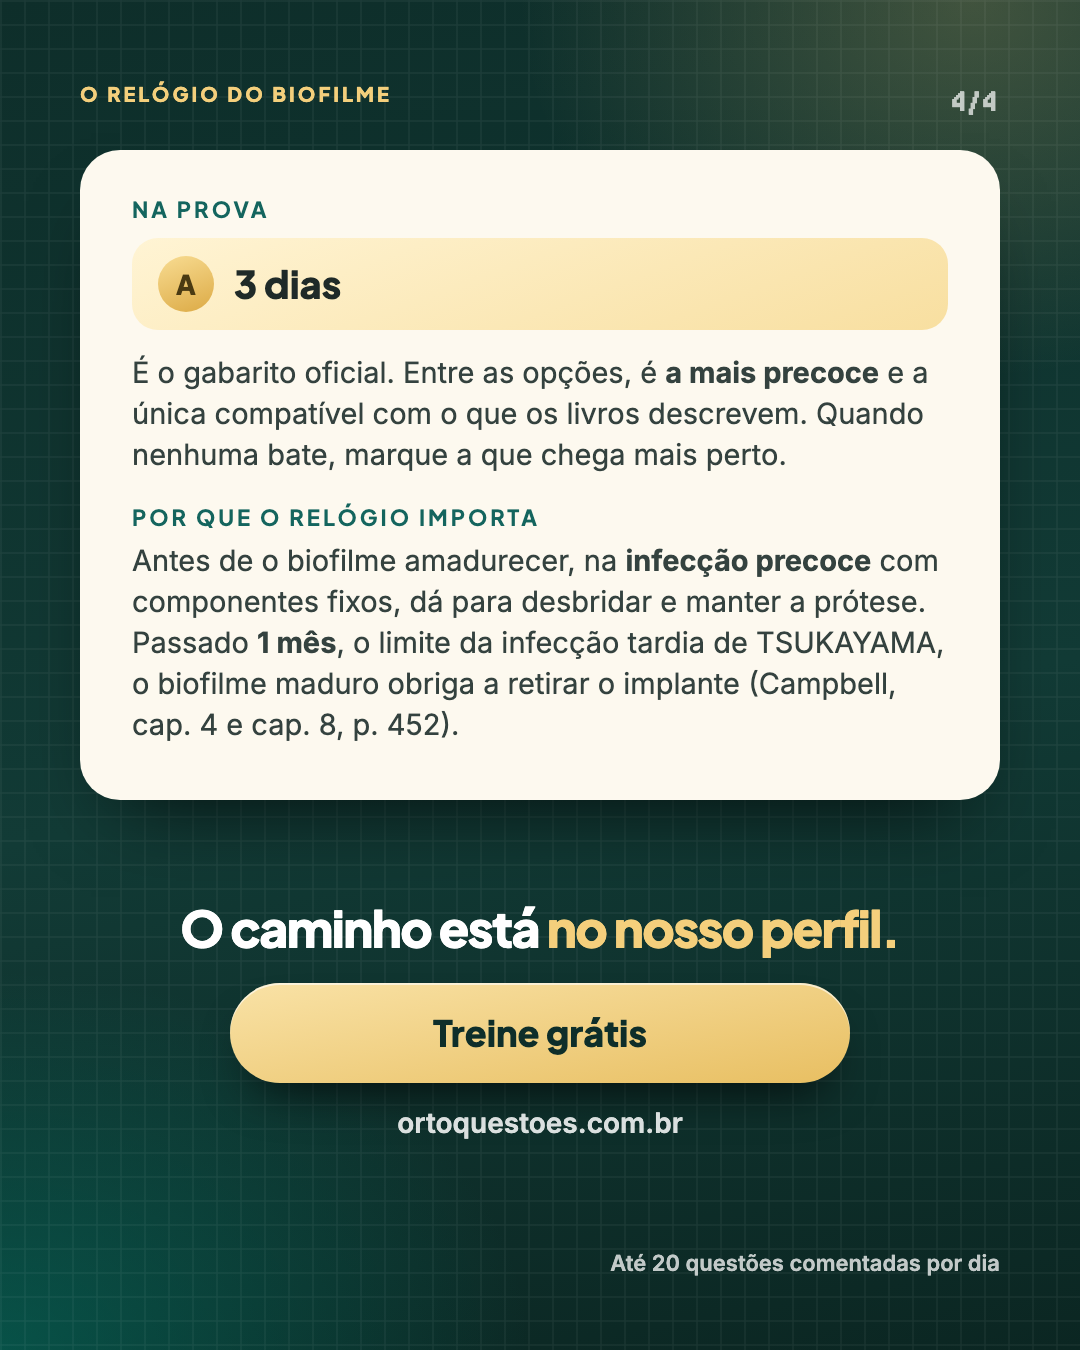
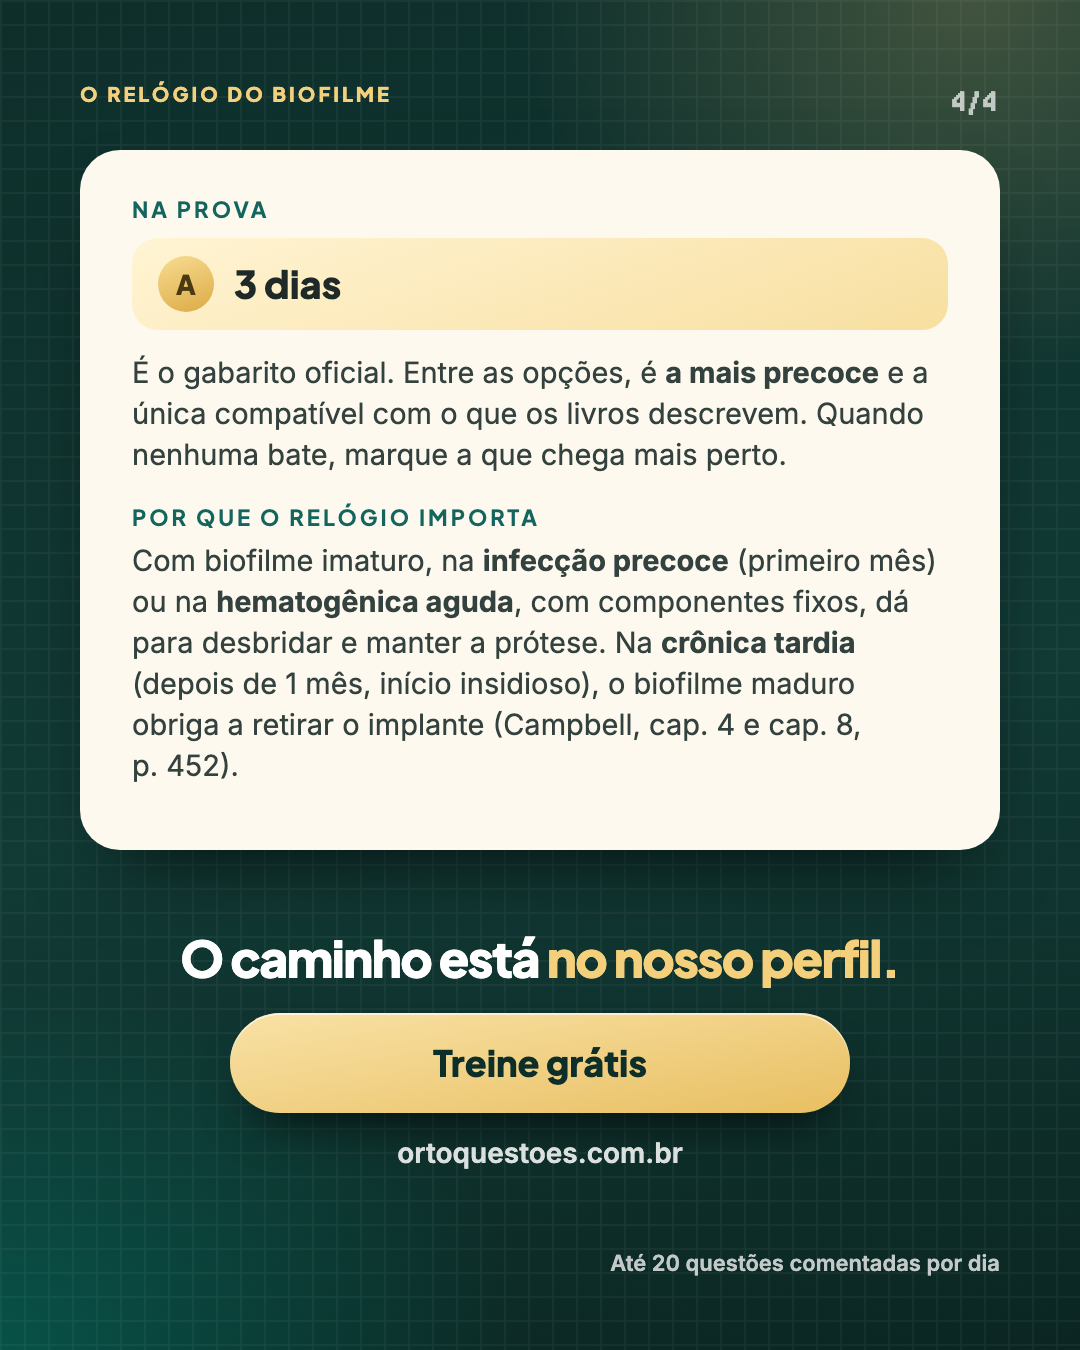
Biofilme, slide 4: hematogênica aguda também permite reter a prótese; retirar só na crônica tardia

Changed region(s): [[0.0611, 0.4044, 0.9472, 0.8711]]

diff --git a/marketing/instagram/posts/2026-11-29-relogio-biofilme/feed.html b/marketing/instagram/posts/2026-11-29-relogio-biofilme/feed.html
@@ -116,14 +116,14 @@ section { width: 1080px; height: 1350px; margin-bottom: 40px; background:
   <div class="grade"></div>
   <p class="sel">O relógio do biofilme</p>
   <span class="cont">4/4</span>
-  <div class="card" style="top:150px; height:650px; padding:48px 52px;">
+  <div class="card" style="top:150px; height:700px; padding:48px 52px;">
     <p class="kick" style="color:var(--verde);">Na prova</p>
     <div class="op certa" style="margin-top:18px; font-size:38px;"><span class="l">A</span>3 dias</div>
     <p class="cit" style="margin-top:22px; font-size:29px;">É o gabarito oficial. Entre as opções, é <b>a mais precoce</b> e a única compatível com o que os livros descrevem. Quando nenhuma bate, marque a que chega mais perto.</p>
     <p class="kick" style="margin-top:30px; color:var(--verde);">Por que o relógio importa</p>
-    <p class="cit" style="margin-top:12px; font-size:29px;">Antes de o biofilme amadurecer, na <b>infecção precoce</b> com componentes fixos, dá para desbridar e manter a prótese. Passado <b>1 mês</b>, o limite da infecção tardia de TSUKAYAMA, o biofilme maduro obriga a retirar o implante (Campbell, cap. 4 e cap. 8, p. 452).</p>
+    <p class="cit" style="margin-top:12px; font-size:29px;">Com biofilme imaturo, na <b>infecção precoce</b> (primeiro mês) ou na <b>hematogênica aguda</b>, com componentes fixos, dá para desbridar e manter a prótese. Na <b>crônica tardia</b> (depois de 1 mês, início insidioso), o biofilme maduro obriga a retirar o implante (Campbell, cap.&nbsp;4 e cap.&nbsp;8, p.&nbsp;452).</p>
   </div>
-  <div style="position:absolute; left:80px; right:80px; top:900px; z-index:2; text-align:center;">
+  <div style="position:absolute; left:80px; right:80px; top:930px; z-index:2; text-align:center;">
     <p style="font:800 50px/1.1 Jakarta; letter-spacing:-1.5px; color:#fff;">O caminho está <span class="ouro">no nosso perfil.</span></p>
     <div class="botao" style="margin:28px auto 0; width:620px; height:100px;">Treine grátis</div>
     <p style="margin-top:22px; font:600 28px/1.3 Inter; color:rgba(255,255,255,.85);">ortoquestoes.com.br</p>
